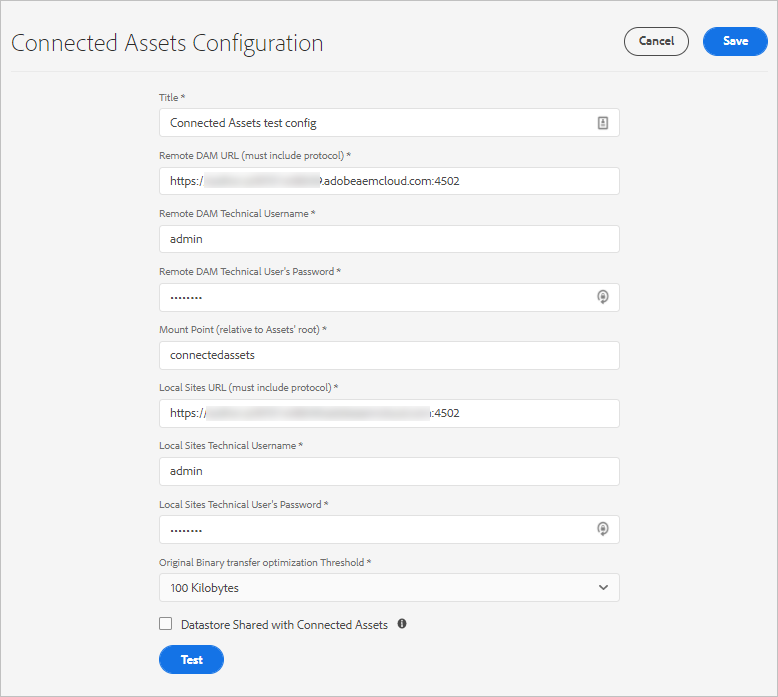
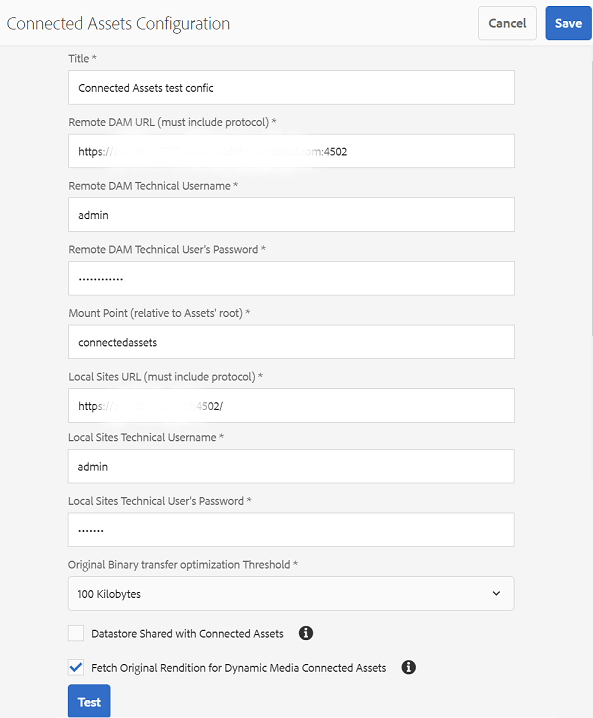
SP 6.5.10.0 updates

diff --git a/help/assets/use-assets-across-connected-assets-instances.md b/help/assets/use-assets-across-connected-assets-instances.md
@@ -14,7 +14,7 @@ Connected Assets functionality supports the above use case by integrating [!DNL 
 
 ## Overview of Connected Assets {#overview-of-connected-assets}
 
-When editing pages in [!UICONTROL Page Editor] as target destination, the authors can seamlessly search, browse, and embed assets from a different [!DNL Assets] deployment that acts as a source of assets. The administrators create a one-time integration of a deployment of [!DNL Experience Manager] with [!DNL Sites] capability with another deployment of [!DNL Experience Manager] with [!DNL Assets] capability.
+When editing pages in [!UICONTROL Page Editor] as target destination, the authors can seamlessly search, browse, and embed assets from a different [!DNL Assets] deployment that acts as a source of assets. The administrators create a one-time integration of a deployment of [!DNL Experience Manager] with [!DNL Sites] capability with another deployment of [!DNL Experience Manager] with [!DNL Assets] capability. Site authors can also use Dynamic Media images in their site's web pages through Connected Assets and leverage the Dynamic Media functionalities, such as smart crop and image presets.
 
 For the [!DNL Sites] authors, the remote assets are available as read-only local assets. The functionality supports seamless search and use of a few remote assets at a time. To make many remote assets available on a [!DNL Sites] deployment in one-go, consider migrating the assets in bulk. See [Experience Manager Assets migration guide](/help/assets/assets-migration-guide.md).
 
@@ -109,6 +109,25 @@ You can check the connectivity between configured [!DNL Sites] deployments and [
 
 ![Connection test of Connected Assets configured [!DNL Sites]](assets/connected-assets-multiple-config.png)
 *Figure: Connection test of Connected Assets configured [!DNL Sites].*
+
+### Configure a connection for dynamic media assets{#sites-dynamic-media-connected-assets}
+
+You can configure a connection between [!DNL Sites] deployment and [!DNL Dynamic Media] deployment that allows webpage authors to use [!DNL Dynamic Media] images in their web pages. While authoring webpages, the experience of using remote Assets and remote [!DNL Dynamic Media] deployments remains the same.
+
+To configure Connected Assets functionality for dynamic media deployments, follow these steps:
+
+1. Enable and configure [!DNL Dynamic Media] as global configuration on remote [!DNL Assets] author deployment. To configure Dynamic Media, see [Configure Dynamic Media](/help/assets/config-dynamic.md#configuring-dynamic-media-cloud-services).<br/>
+On remote [!DNL Assets] deployment, in [!UICONTROL Dynamic Media sync mode], select **[!UICONTROL Enabled by default]**.
+
+1. Create Connected Assets configuration as described in [Configure connection between sites and assets deployments](#configure-a-connection-between-sites-and-assets-deployments). Also, select **[!UICONTROL Fetch Original Rendition for Dynamic Media Connected Assets]** option.
+
+1. Configure [!DNL Dynamic Media] on local [!DNL Sites] and remote [!DNL Assets] deployments. Follow the instructions to [configure [!DNL Dynamic Media]](/help/assets/dynamic-media/config-dm.md#configuring-dynamic-media-cloud-services).
+
+   * Use the same company name in all configurations.
+   * On local [!DNL Sites], in [!UICONTROL Dynamic Media sync mode], select **[!UICONTROL Disabled by default]**. The [!DNL Sites] deployment needs only read-only access to the [!DNL Dynamic Media] account.
+   * On local [!DNL Sites], in the **[!UICONTROL Publish Assets]** option, select **[!UICONTROL Selective Publish]**. Do not select **[!UICONTROL Sync All Content]**.
+
+1. Enable [[!DNL Dynamic Media] support in Image Core Component](https://experienceleague.adobe.com/docs/experience-manager-core-components/using/components/image.html#dynamic-media). This feature enables the default [Image component](https://www.aemcomponents.dev/content/core-components-examples/library/page-authoring/image.html) to display [!DNL Dynamic Media] images when [!DNL Dynamic Media] images are used by authors in webpages on local [!DNL Sites] deployment.
 
 ## Use remote assets {#use-remote-assets}
 
@@ -220,3 +239,6 @@ To troubleshoot common errors, follow these steps:
 * If remote references are not retrieved and results in an error message, check if [!DNL Sites] deployment is available and check for network connectivity issues. Retry later to check. [!DNL Assets] deployment attempts twice to establish connection with [!DNL Sites] deployment and then reports a failure.
 
   ![failure to retrieve asset remote references](assets/reference-report-failure.png)
+
+
+
